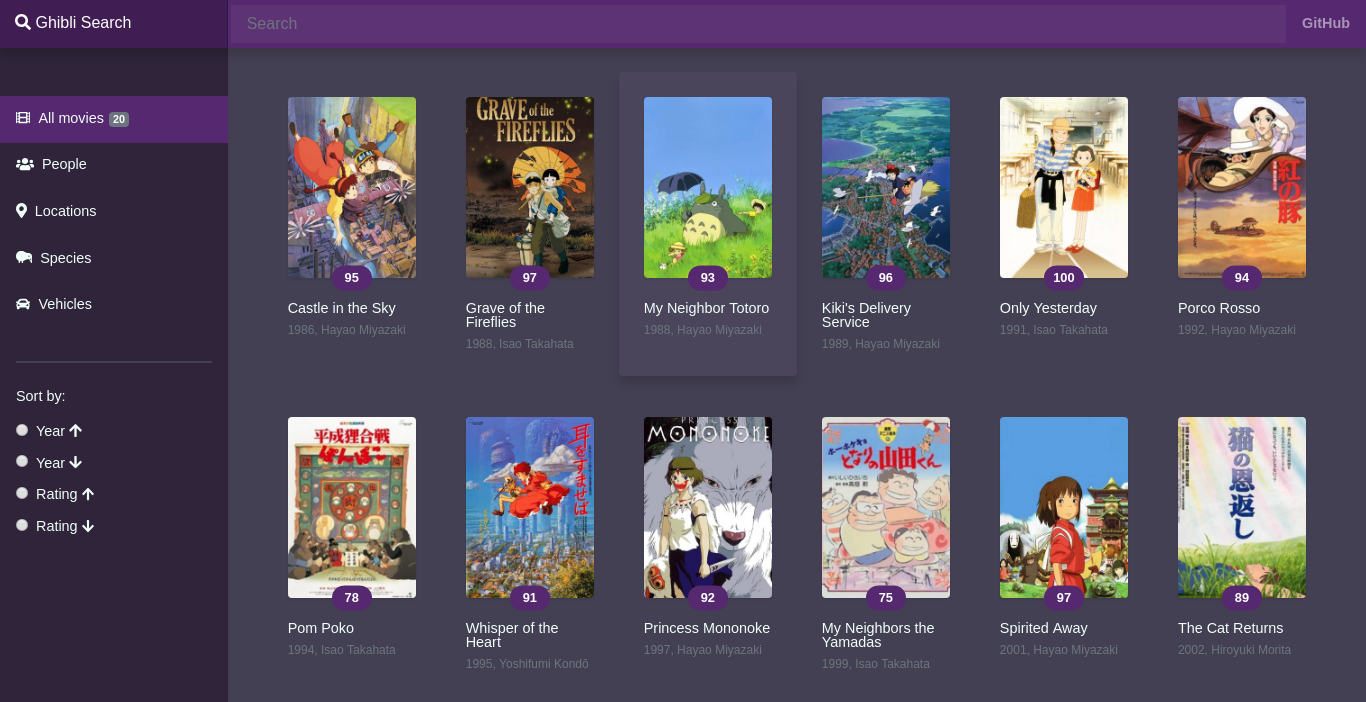
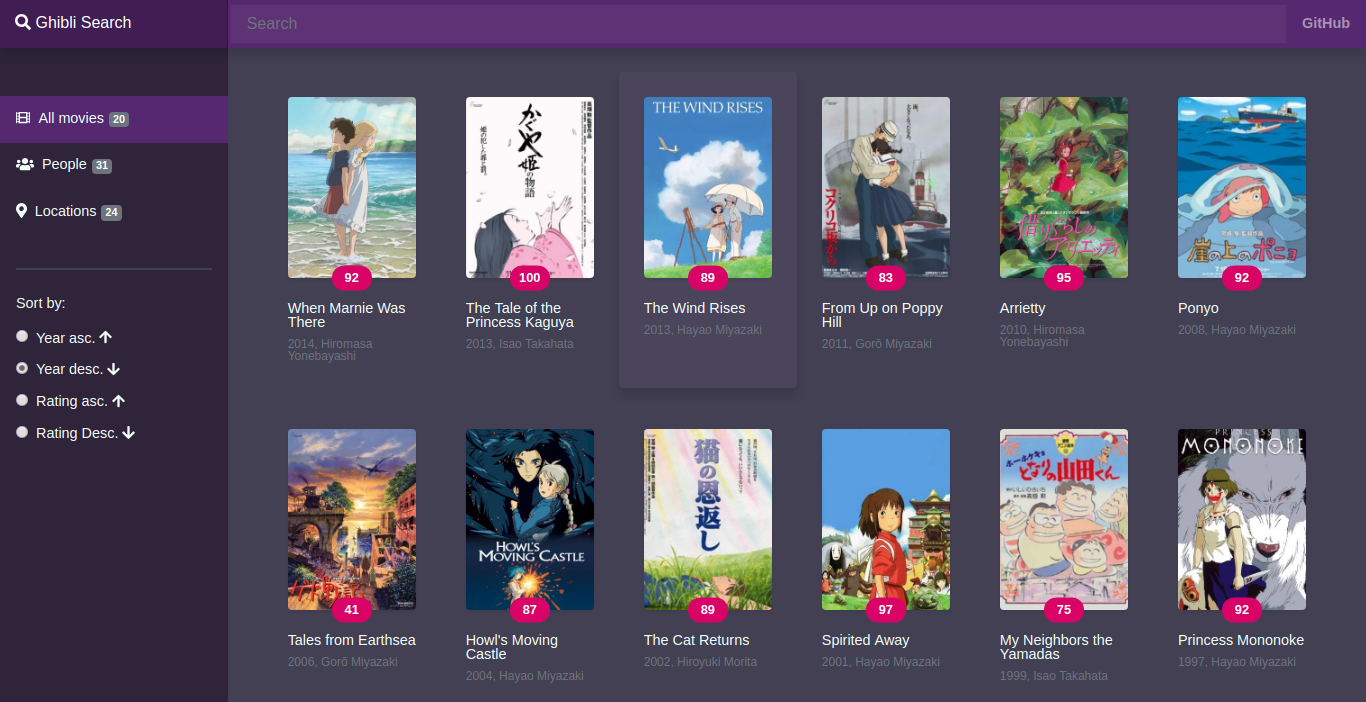
Updated image

diff --git a/src/App.js b/src/App.js
@@ -48,8 +48,8 @@ class App extends Component {
           filterMovies: data,
           isLoading: false
         })
-      );
-    /* .then(() =>
+      )
+      .then(() =>
         this.state.movies.forEach((element, i) => {
           const urlImage = `https://kitsu.io/api/edge/anime?filter[text]=${
             element.title
@@ -71,7 +71,7 @@ class App extends Component {
               })
             );
         })
-      ); */
+      );
   }
 
   onSearch = e => {

diff --git a/src/components/Movie.js b/src/components/Movie.js
@@ -14,7 +14,7 @@ class Movie extends Component {
           <CardImg
             top
             width="100%"
-            src="http://via.placeholder.com/320x440"
+            src={this.props.movie.image}
             alt="Card image cap"
             className="shadow-sm rounded"
           />
